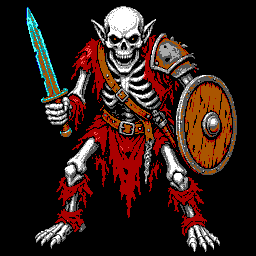
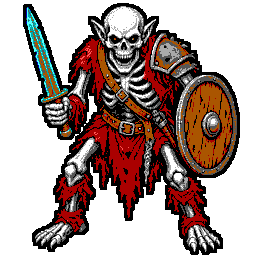
More color

diff --git a/src/components/wizardry/DungeonView.tsx b/src/components/wizardry/DungeonView.tsx
@@ -3,8 +3,13 @@
 import { useEffect, useRef, useState } from "react";
 import type { Dir, DungeonResult, Pos } from "@/sim/types";
 
-const EGA_YELLOW = "#FFFF55";
-const DIM = "#AA5500";
+/** Pool of Radiance–style EGA maze fills */
+const CEILING = "#FFFFFF";
+const WALL = "#AAAAAA";
+const FLOOR = "#AA5500";
+const OUTLINE = "#000000";
+const FIGHT = "#55FFFF";
+
 const MONSTER_SPRITES: Record<string, string> = {
   Goblin: "/monsters/goblin-color.png",
   Hobgoblin: "/monsters/hobgoblin-color.png",
@@ -53,6 +58,152 @@ function rect(depth: number, w: number, h: number) {
   const ix = t * w * 0.42;
   const iy = t * h * 0.42;
   return { x: ix, y: iy, w: w - ix * 2, h: h - iy * 2 };
+}
+
+type R = ReturnType<typeof rect>;
+
+function fillPoly(
+  ctx: CanvasRenderingContext2D,
+  pts: Array<[number, number]>,
+  fill: string,
+) {
+  if (pts.length < 3) return;
+  ctx.beginPath();
+  ctx.moveTo(pts[0]![0], pts[0]![1]);
+  for (let i = 1; i < pts.length; i++) ctx.lineTo(pts[i]![0], pts[i]![1]);
+  ctx.closePath();
+  ctx.fillStyle = fill;
+  ctx.fill();
+  ctx.strokeStyle = OUTLINE;
+  ctx.stroke();
+}
+
+/** Left side-passage: floor/ceiling wedge + far wall face (not a flat door). */
+function drawLeftBranch(ctx: CanvasRenderingContext2D, a: R, b: R) {
+  // How far the branch pushes toward the screen edge (perspective inset mirrored out).
+  const inset = b.x - a.x;
+  const outN = Math.max(0, a.x - inset);
+  const outF = Math.max(0, a.x - inset * 0.75);
+
+  // Branch ceiling
+  fillPoly(
+    ctx,
+    [
+      [outN, a.y],
+      [a.x, a.y],
+      [b.x, b.y],
+      [outF, b.y],
+    ],
+    CEILING,
+  );
+  // Branch floor
+  fillPoly(
+    ctx,
+    [
+      [outN, a.y + a.h],
+      [a.x, a.y + a.h],
+      [b.x, b.y + b.h],
+      [outF, b.y + b.h],
+    ],
+    FLOOR,
+  );
+  // Outer wall of the side corridor (facing back toward the main hall)
+  if (outN < a.x - 0.5 || outF < b.x - 0.5) {
+    fillPoly(
+      ctx,
+      [
+        [outN, a.y],
+        [outF, b.y],
+        [outF, b.y + b.h],
+        [outN, a.y + a.h],
+      ],
+      WALL,
+    );
+  }
+  // Far face of the branch (what you see looking into the side passage)
+  fillPoly(
+    ctx,
+    [
+      [outF, b.y],
+      [b.x, b.y],
+      [b.x, b.y + b.h],
+      [outF, b.y + b.h],
+    ],
+    WALL,
+  );
+  // Near jamb (thin wall lip on the main corridor)
+  const jamb = Math.max(1.5, inset * 0.15);
+  fillPoly(
+    ctx,
+    [
+      [a.x, a.y],
+      [a.x + jamb, a.y + (b.y - a.y) * 0.08],
+      [a.x + jamb, a.y + a.h - (a.y + a.h - (b.y + b.h)) * 0.08],
+      [a.x, a.y + a.h],
+    ],
+    WALL,
+  );
+}
+
+/** Right side-passage (mirror of left). */
+function drawRightBranch(ctx: CanvasRenderingContext2D, a: R, b: R) {
+  const aR = a.x + a.w;
+  const bR = b.x + b.w;
+  const inset = aR - bR;
+  const outN = aR + inset;
+  const outF = bR + inset * 0.75;
+
+  fillPoly(
+    ctx,
+    [
+      [aR, a.y],
+      [outN, a.y],
+      [outF, b.y],
+      [bR, b.y],
+    ],
+    CEILING,
+  );
+  fillPoly(
+    ctx,
+    [
+      [aR, a.y + a.h],
+      [outN, a.y + a.h],
+      [outF, b.y + b.h],
+      [bR, b.y + b.h],
+    ],
+    FLOOR,
+  );
+  fillPoly(
+    ctx,
+    [
+      [outN, a.y],
+      [outF, b.y],
+      [outF, b.y + b.h],
+      [outN, a.y + a.h],
+    ],
+    WALL,
+  );
+  fillPoly(
+    ctx,
+    [
+      [bR, b.y],
+      [outF, b.y],
+      [outF, b.y + b.h],
+      [bR, b.y + b.h],
+    ],
+    WALL,
+  );
+  const jamb = Math.max(1.5, inset * 0.15);
+  fillPoly(
+    ctx,
+    [
+      [aR, a.y],
+      [aR - jamb, a.y + (b.y - a.y) * 0.08],
+      [aR - jamb, a.y + a.h - (a.y + a.h - (b.y + b.h)) * 0.08],
+      [aR, a.y + a.h],
+    ],
+    WALL,
+  );
 }
 
 function monsterSpriteKey(name: string): string | null {
@@ -123,10 +274,10 @@ export function DungeonView({
       if (!ctx) return;
       ctx.setTransform(dpr, 0, 0, dpr, 0, 0);
 
-      ctx.fillStyle = "#000000";
+      ctx.fillStyle = OUTLINE;
       ctx.fillRect(0, 0, cssW, cssH);
-      ctx.strokeStyle = EGA_YELLOW;
-      ctx.lineWidth = Math.max(1.25, cssW / 280);
+      ctx.lineWidth = Math.max(1, cssW / 320);
+      ctx.lineJoin = "miter";
 
       const depths: boolean[] = [];
       for (let d = 0; d < 6; d++) {
@@ -138,47 +289,78 @@ export function DungeonView({
       let blockedAt = depths.findIndex(Boolean);
       if (blockedAt === -1) blockedAt = depths.length - 1;
 
-      for (let d = 0; d <= blockedAt; d++) {
+      // Far → near so nearer planes cover seams (painter's algorithm).
+      for (let d = blockedAt; d >= 0; d--) {
         const cell = ahead(pos, facing, d);
-        const a = rect(d, cssW, cssH);
-        const b = rect(d + 1, cssW, cssH);
+        const a: R = rect(d, cssW, cssH);
+        const b: R = rect(d + 1, cssW, cssH);
         const leftWall = hasWall(maze, cell, leftOf(facing));
         const rightWall = hasWall(maze, cell, rightOf(facing));
+        const forwardWall =
+          hasWall(maze, cell, facing) || d === blockedAt;
 
-        ctx.beginPath();
+        fillPoly(
+          ctx,
+          [
+            [a.x, a.y],
+            [a.x + a.w, a.y],
+            [b.x + b.w, b.y],
+            [b.x, b.y],
+          ],
+          CEILING,
+        );
+        fillPoly(
+          ctx,
+          [
+            [a.x, a.y + a.h],
+            [a.x + a.w, a.y + a.h],
+            [b.x + b.w, b.y + b.h],
+            [b.x, b.y + b.h],
+          ],
+          FLOOR,
+        );
+
         if (leftWall) {
-          ctx.moveTo(a.x, a.y);
-          ctx.lineTo(b.x, b.y);
-          ctx.moveTo(a.x, a.y + a.h);
-          ctx.lineTo(b.x, b.y + b.h);
+          fillPoly(
+            ctx,
+            [
+              [a.x, a.y],
+              [b.x, b.y],
+              [b.x, b.y + b.h],
+              [a.x, a.y + a.h],
+            ],
+            WALL,
+          );
         } else {
-          ctx.moveTo(a.x, a.y);
-          ctx.lineTo(a.x, a.y + a.h);
-          ctx.moveTo(a.x, b.y);
-          ctx.lineTo(b.x, b.y);
-          ctx.lineTo(b.x, b.y + b.h);
-          ctx.lineTo(a.x, b.y + b.h);
+          drawLeftBranch(ctx, a, b);
         }
-        if (rightWall) {
-          ctx.moveTo(a.x + a.w, a.y);
-          ctx.lineTo(b.x + b.w, b.y);
-          ctx.moveTo(a.x + a.w, a.y + a.h);
-          ctx.lineTo(b.x + b.w, b.y + b.h);
-        } else {
-          ctx.moveTo(a.x + a.w, a.y);
-          ctx.lineTo(a.x + a.w, a.y + a.h);
-          ctx.moveTo(a.x + a.w, b.y);
-          ctx.lineTo(b.x + b.w, b.y);
-          ctx.lineTo(b.x + b.w, b.y + b.h);
-          ctx.lineTo(a.x + a.w, b.y + b.h);
-        }
-        ctx.stroke();
 
-        if (hasWall(maze, cell, facing) || d === blockedAt) {
-          ctx.strokeStyle = d === 0 ? EGA_YELLOW : DIM;
-          ctx.strokeRect(b.x, b.y, b.w, b.h);
-          ctx.strokeStyle = EGA_YELLOW;
-          break;
+        if (rightWall) {
+          fillPoly(
+            ctx,
+            [
+              [a.x + a.w, a.y],
+              [b.x + b.w, b.y],
+              [b.x + b.w, b.y + b.h],
+              [a.x + a.w, a.y + a.h],
+            ],
+            WALL,
+          );
+        } else {
+          drawRightBranch(ctx, a, b);
+        }
+
+        if (forwardWall) {
+          fillPoly(
+            ctx,
+            [
+              [b.x, b.y],
+              [b.x + b.w, b.y],
+              [b.x + b.w, b.y + b.h],
+              [b.x, b.y + b.h],
+            ],
+            WALL,
+          );
         }
       }
 
@@ -214,14 +396,13 @@ export function DungeonView({
             sizes.reduce((sum, s) => sum + s.w, 0) + (count - 1) * gap;
           const floorY = cssH * 0.94;
           let x = (cssW - total) / 2;
-          ctx.imageSmoothingEnabled = true;
-          ctx.imageSmoothingQuality = "high";
+          ctx.imageSmoothingEnabled = false;
           for (const { sprite, w, h } of sizes) {
             ctx.drawImage(sprite, x, floorY - h, w, h);
             x += w + gap;
           }
         }
-        ctx.fillStyle = EGA_YELLOW;
+        ctx.fillStyle = FIGHT;
         ctx.font = `600 ${Math.max(11, Math.round(cssW / 28))}px ui-monospace, monospace`;
         ctx.textAlign = "center";
         ctx.textBaseline = "top";

diff --git a/src/components/wizardry/MiniMap.tsx b/src/components/wizardry/MiniMap.tsx
@@ -1,7 +1,11 @@
 import type { DungeonResult } from "@/sim/types";
 import type { ReplayFrame } from "@/replay/project";
 
-const WALL = "#AA5500";
+const WALL = "#AAAAAA";
+const HERE = "#FFFF55";
+const EXIT = "#55FF55";
+const ENTRANCE = "#55FFFF";
+const FLOOR = "#AA5500";
 
 export function MiniMap({
   maze,
@@ -29,12 +33,12 @@ export function MiniMap({
           const isExit = maze.exit.x === x && maze.exit.y === y;
           const isEnt = maze.entrance.x === x && maze.entrance.y === y;
           const fill = isHere
-            ? "#FFFF55"
+            ? HERE
             : isExit
-              ? "#55FF55"
+              ? EXIT
               : isEnt
-                ? "#55FFFF"
-                : "#555555";
+                ? ENTRANCE
+                : FLOOR;
           const px = x * cell;
           const py = y * cell;
           return (
